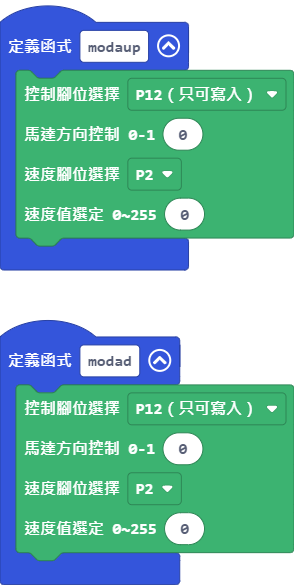
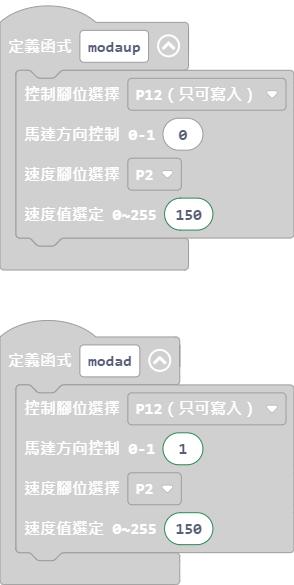
更新 main.blocks, main.ts

diff --git a/main.ts b/main.ts
@@ -21,7 +21,7 @@ function modaup () {
     AnalogPin.P12,
     0,
     AnalogPin.P2,
-    0
+    150
     )
 }
 function back () {
@@ -74,9 +74,9 @@ function stop () {
 function modad () {
     sensors.DDMmotor(
     AnalogPin.P12,
-    0,
+    1,
     AnalogPin.P2,
-    0
+    150
     )
 }
 function go () {
